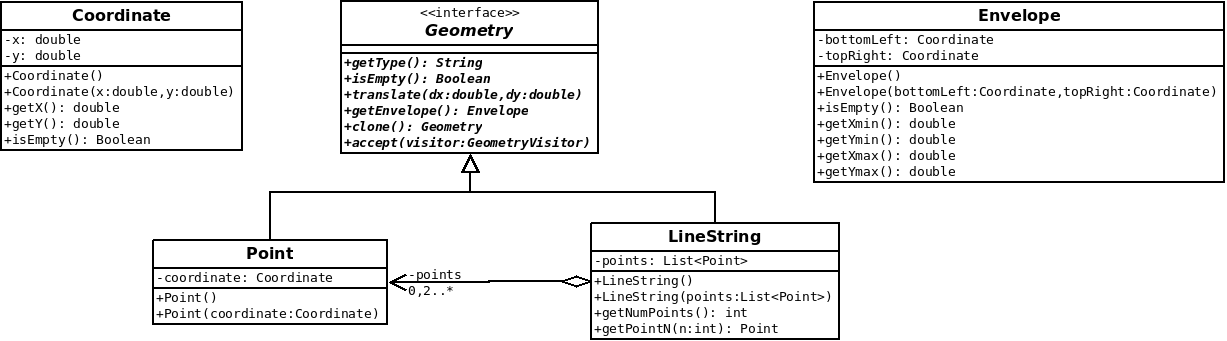
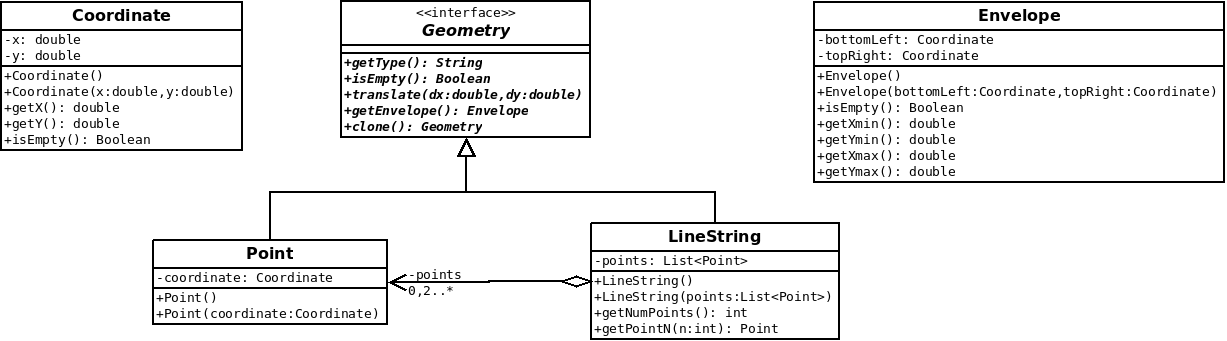
ajout tp-refactoring-graph & fix coquile schéma UML tp-pattern-geometry

Changed region(s): [[0.2787, 0.0, 0.4955, 0.5572], [0.3407, 0.0293, 0.4336, 0.1173]]

diff --git a/annexe/tp-graph/index.html b/annexe/tp-graph/index.html
@@ -1,0 +1,126 @@
+<!doctype html>
+<html>
+
+<head>
+  <meta charset="utf-8">
+  <meta name="viewport" content="width=device-width, initial-scale=1, minimal-ui">
+  <title>tp-graph/index.md</title>
+  <link type="text/css" rel="stylesheet" href="../assets/css/github-markdown.css">
+  <link type="text/css" rel="stylesheet" href="../assets/css/pilcrow.css">
+  <link type="text/css" rel="stylesheet" href="../assets/css/hljs-github.min.css" />
+
+  <link rel="stylesheet" href="../assets/highlight/styles/github.css">
+  <style>
+    html, body {
+      width: 90%;
+      margin: auto;
+      padding: 0;
+    }
+  </style>
+</head>
+
+<body>
+  <article class="markdown-body">
+    <h1 id="tp-refactoring-graph"><a href="#tp-refactoring-graph" class="anchor"></a>tp-refactoring-graph</h1><h2 id="introduction"><a href="#introduction" class="anchor"></a>Introduction</h2><p>Dans ce TP, nous allons réfactorer une application qui charge un graphe à partir d&#39;un fichier XML et calcul le plus court chemin entre deux sommets.</p>
+<p>Les objectifs sont les suivants :</p>
+<ul>
+<li>Rendre le code plus robuste</li>
+<li>Optimiser le calcul de plus court chemin</li>
+<li>Rendre le calcul de plus court chemin plus générique</li>
+<li>Améliorer les entrées/sorties du programme</li>
+</ul>
+<p>Pour celà, nous allons faire une revue de code et procéder par étape.</p>
+<h2 id="d-marrage"><a href="#d-marrage" class="anchor"></a>Démarrage</h2><ul>
+<li>Cloner le projet <a href="https://github.com/mborne/tp-refactoring-graph" target="_blank">https://github.com/mborne/tp-refactoring-graph</a></li>
+</ul>
+<pre><code class="language-bash">mkdir ~/workspace_pattern
+cd ~/workspace_pattern
+git clone https://github.com/mborne/tp-refactoring-graph
+cd tp-refactoring-graph
+# vérifier que vous êtes bien sur la branche &quot;initial&quot;
+git branch</code></pre>
+<h2 id="0-1-blinder-les-constructions-manipulation-et-chargement-de-graphe"><a href="#0-1-blinder-les-constructions-manipulation-et-chargement-de-graphe" class="anchor"></a>0.1 - Blinder les constructions, manipulation et chargement de graphe</h2><blockquote>
+<p>Problème : Il y a trop de fonctionnalités exposées pour que l&#39;on puisse refactorer facilement l&#39;algorithme de plus chemin.</p>
+</blockquote>
+<ul>
+<li>Mettre en place une fabrique pour créer les sommets : <code>graph.createVertex(coordinate,id)</code></li>
+<li>Mettre en place une fabrique pour créer les arcs : <code>graph.createEdge(source,target,id)</code></li>
+<li>Supprimer les setters</li>
+</ul>
+<p><img src="uml/graph-0.1.png" alt="Modèle 0.1"></p>
+<h2 id="0-2-optimiser-le-calcul-du-plus-court-chemin-indexation-des-arcs-entrants-et-sortants-"><a href="#0-2-optimiser-le-calcul-du-plus-court-chemin-indexation-des-arcs-entrants-et-sortants-" class="anchor"></a>0.2 - Optimiser le calcul du plus court chemin (indexation des arcs entrants et sortants)</h2><blockquote>
+<p>Problème : Chaque fois que l&#39;on recherche les arcs sortants d&#39;un sommet, on parcourt l&#39;ensemble du tableau des arcs. Il convient d&#39;indexer au niveau des sommets les arcs entrant et sortants.</p>
+</blockquote>
+<ul>
+<li>Ajouter des propriétés <code>inEdges</code> et <code>outEdges</code> sur les sommets</li>
+<li>S&#39;assurer que <code>inEdges</code> et <code>outEdges</code> est automatiquement renseignés lorsque l&#39;on créé des arcs.</li>
+</ul>
+<p><img src="uml/graph-0.2.png" alt="Modèle 0.2"></p>
+<h2 id="0-3-permettre-le-calcul-en-parall-le-de-plusieurs-plus-court-chemin-sur-un-m-me-graphe-en-m-moire"><a href="#0-3-permettre-le-calcul-en-parall-le-de-plusieurs-plus-court-chemin-sur-un-m-me-graphe-en-m-moire" class="anchor"></a>0.3 - Permettre le calcul en parallèle de plusieurs plus court chemin sur un même graphe en mémoire</h2><blockquote>
+<p>Problème : Les sommets étant porteurs des informations spécifiques à l&#39;algorithme de calcul de plus court chemin (<code>reached</code>, <code>visited</code>, etc.), il est impossible de lancer deux calculs de plus chemin en parallèle sur le même graphe.</p>
+</blockquote>
+<ul>
+<li>Report des informations de Vertex spécifiques au calcul de plus court chemin dans une classe <code>PathVertex</code></li>
+<li>Ajout d&#39;une propriété <code>List&lt;PathVertex&gt; reachedVertices</code> dans <code>DijkstraPathFinder</code>.</li>
+</ul>
+<h2 id="0-4-permettre-aussi-le-calcul-d-39-un-arbre-de-plus-court-chemin-donc-d-39-isochrones-"><a href="#0-4-permettre-aussi-le-calcul-d-39-un-arbre-de-plus-court-chemin-donc-d-39-isochrones-" class="anchor"></a>0.4 - Permettre aussi le calcul d&#39;un arbre de plus court chemin (donc d&#39;isochrones)</h2><blockquote>
+<p>Problème : Nous voulons aussi pouvoir calculer des isochrones. Il est donc intéressant de pouvoir calculer un arbre du plus court chemin. L&#39;algorithme est guère différent du calcul de plus court chemin de disktra : Il suffit de s&#39;arrêter non pas lorsque l&#39;on a atteint un sommet de destination, mais lorsque l&#39;on n&#39;a plus aucun sommet à visiter.</p>
+</blockquote>
+<ul>
+<li>Ajouter le concept de <code>PathTree</code> porteur d&#39;une liste de <code>PathVertex</code></li>
+<li>Coder une classe <code>PathTreeBuilder</code> qui construit l&#39;arbre du plus court chemin <code>buildTree(origin: Vertex)</code></li>
+<li>Réutiliser cette classe dans <code>DijkstraPathFinder</code></li>
+</ul>
+<h2 id="0-5-strat-gie-d-39-arr-t-du-calcul-de-l-39-arbre-du-plus-court-chemin"><a href="#0-5-strat-gie-d-39-arr-t-du-calcul-de-l-39-arbre-du-plus-court-chemin" class="anchor"></a>0.5 - Stratégie d&#39;arrêt du calcul de l&#39;arbre du plus court chemin</h2><blockquote>
+<p>Problème : Il faut pouvoir s&#39;arrêter de calculer l&#39;arbre soit quand on atteint un sommet particulier, soit quand on a atteint une distance limite.</p>
+</blockquote>
+<ul>
+<li>Proposer une méthode basée sur une stratégie pour arrêter le calcul de l&#39;arbre</li>
+<li>Implémenter une stratégie pour arrêter le calcul dans le contexte <code>DijkstraPathFinder</code></li>
+<li>Implémenter une stratégie pour limiter le calcul à une distance maximale pour le calcul d&#39;isochrone</li>
+</ul>
+<h2 id="0-6-permettre-le-choix-entre-dijkstra-et-a-star"><a href="#0-6-permettre-le-choix-entre-dijkstra-et-a-star" class="anchor"></a>0.6 - Permettre le choix entre Dijkstra et A-star</h2><blockquote>
+<p>Problème : On souhaite pouvoir </p>
+</blockquote>
+<ul>
+<li>Mettre en place une stratégie <code>NextVertexFinder</code> dans <code>PathTreeBuilder</code> avec deux implémentations<ul>
+<li><code>DijkstraNextVertexFinder</code></li>
+<li><code>AStarNextVertexFinder</code></li>
+</ul>
+</li>
+</ul>
+<h2 id="id-es-pour-la-suite"><a href="#id-es-pour-la-suite" class="anchor"></a>Idées pour la suite</h2><ul>
+<li><p>Ecrire ̀<code>Graph</code> dans différents formats pour être en mesure de le visualiser avec des outils standards (DOT/GraphVIZ, GeoJSON, ...)</p>
+</li>
+<li><p>Ecrire <code>PathTree</code> dans sous forme d&#39;une <code>MultiLineStringM</code> WKT où le M est le coût depuis l&#39;origine du parcours.</p>
+</li>
+<li><p>Ajouter une géométriede type LineString sur les Edge et se baser dessus pour le calcul du coût</p>
+</li>
+<li><p>Permettre l&#39;utilisation soit d&#39;un fichier .xml, soit d&#39;un dossier contenant deux fichiers CSV (vertex.csv et edge.csv)</p>
+</li>
+</ul>
+<blockquote>
+<p>Guide : interface GraphReader, class XmlReader et class CsvReader; class GraphReaderFactory</p>
+</blockquote>
+<ul>
+<li>Permettre les graphes stockés en base de données</li>
+</ul>
+<blockquote>
+<p>Guide : Graph, DefaultGraph, DatabaseGraph</p>
+</blockquote>
+
+  </article>
+
+  <script src="../assets/highlight/highlight.pack.js"></script>
+  <script>hljs.initHighlightingOnLoad();</script>
+
+  <script src="../assets/mermaid/mermaid.min.js"></script>
+  <script>mermaid.init({
+      startOnLoad: true,
+      flowchart: {
+        useMaxWidth: true
+      }
+    }, ".language-mermaid");</script>
+</body>
+
+</html>
